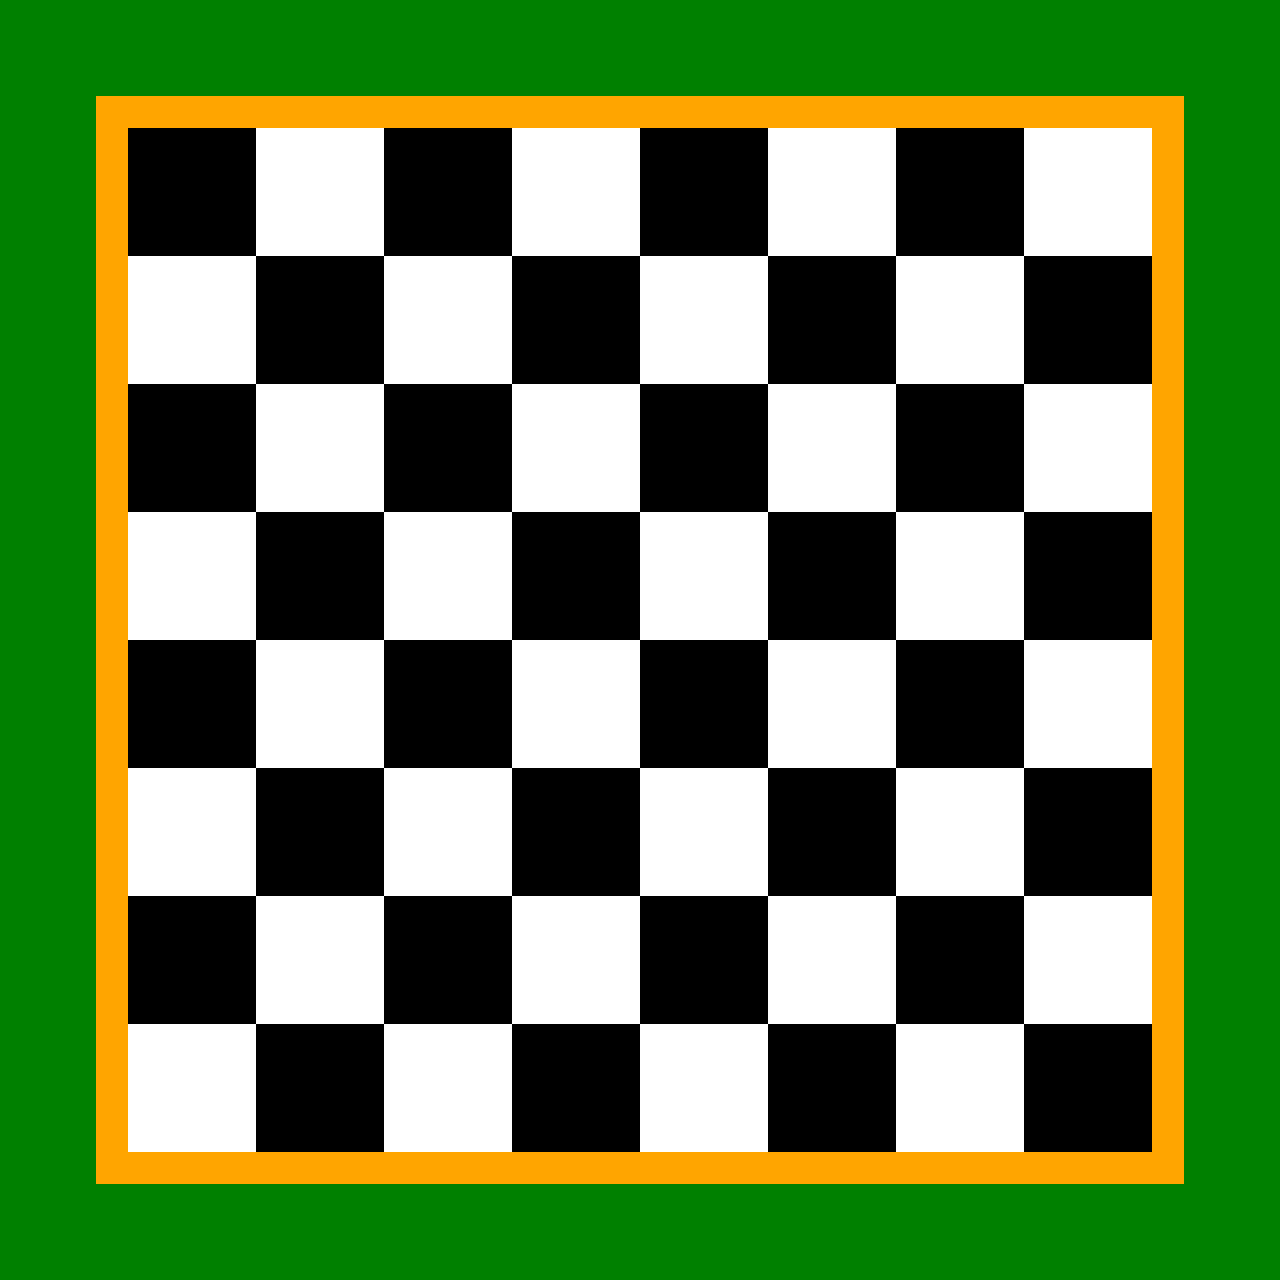
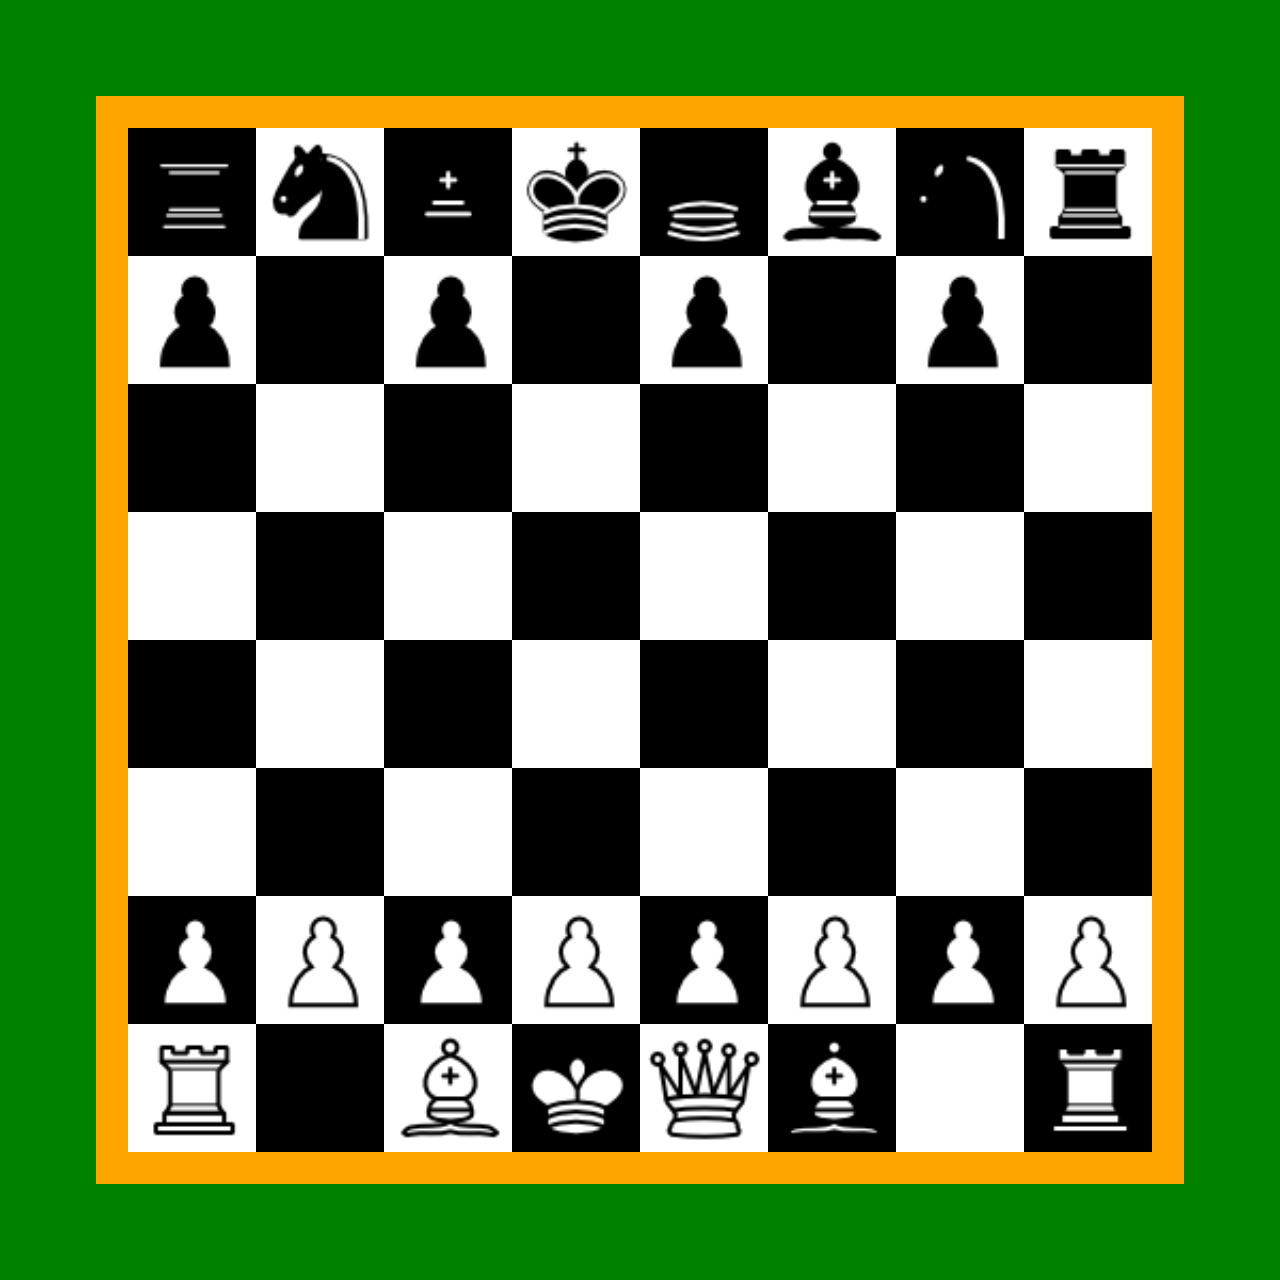
Board with pieces from game matrice

diff --git a/bot.js b/bot.js
@@ -1,7 +1,9 @@
 const { Client, Intents } = require("discord.js");
-const { createCanvas, loadImage, Canvas } = require('canvas')
+const { createCanvas, loadImage, Image , Canvas } = require('canvas')
 const config = require("./config.json");
 const fs = require('fs')
+const games = require("./games.json");
+
 
 const bot = new Client({intents:[Intents.FLAGS.GUILDS,Intents.FLAGS.GUILD_MESSAGES]});
 
@@ -38,7 +40,7 @@ bot.on("messageCreate", async (message) => {
 
         message.channel.send({
             files: [{
-                attachment: `./boards/board${gameID}.png`,
+                attachment: `./boards/board${message.author.id}.png`,
                 name: 'board.png',
                 description: 'Plateau de Jeu'
               }]
@@ -64,7 +66,14 @@ function generateBoard(gameID){
             }else{
                 ctx.fillStyle = "black"
             }
+
             ctx.fillRect((x+1)*(board.width/10),(y+1)*(board.height/10),board.width/10,board.height/10)
+            
+            img = new Image()
+            //loadImage(`./pieces/${games.default[y][x]}.png`.toString())
+            img.onload = () => ctx.drawImage(img,board.width/10*(1+x),board.height/10*(1+y),board.width/10,board.height/10)
+            img.onerror = err => { throw err }
+            img.src = `./pieces/${games.default[y][x]}.png`.toString()
         }
     }
 
